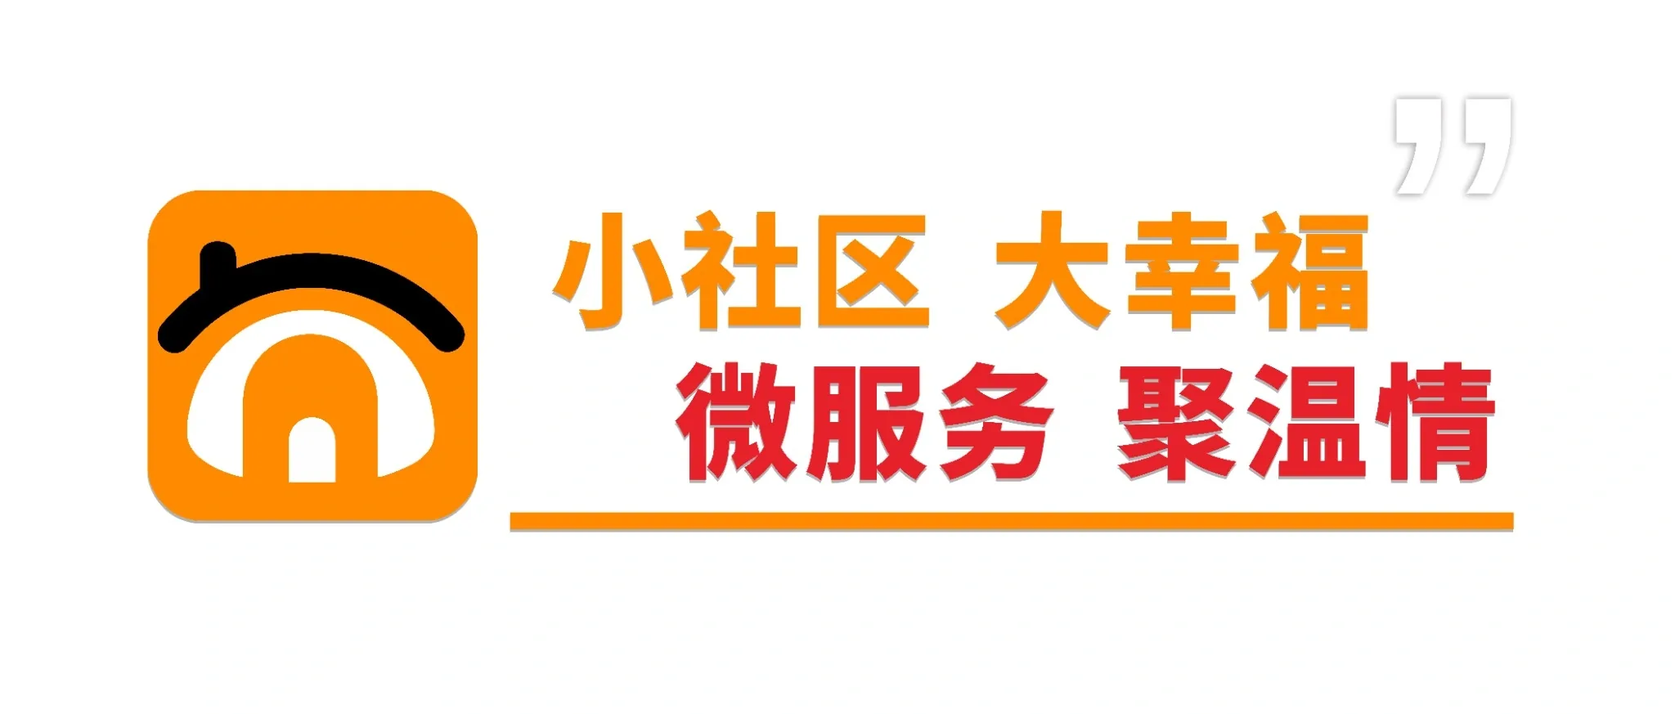
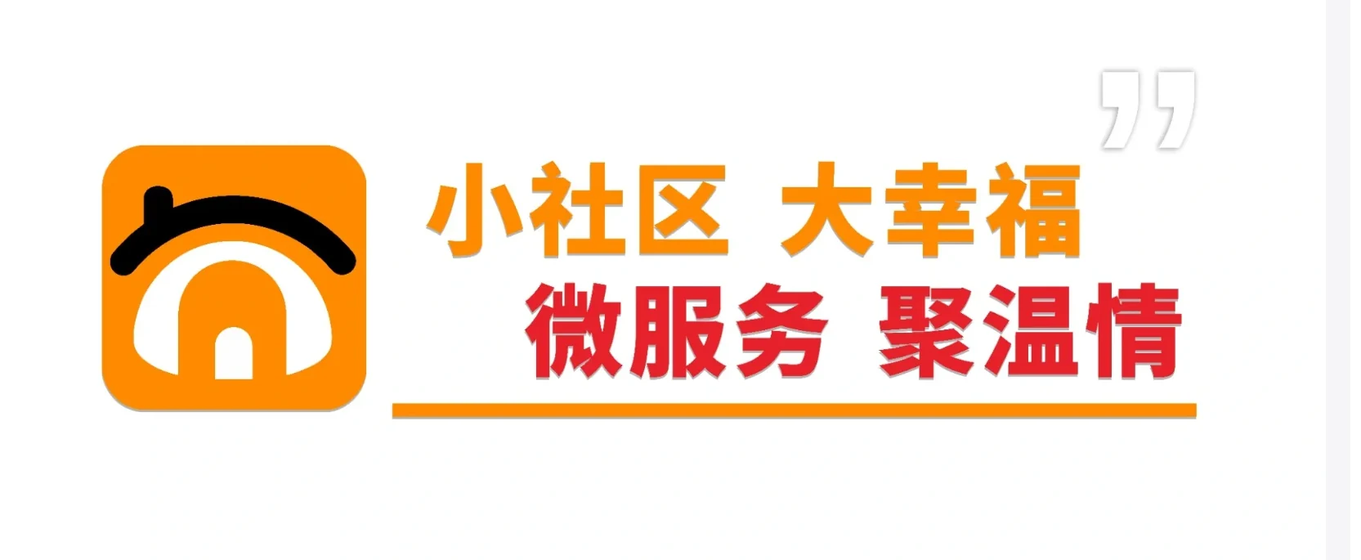
Refine Xingchengli gallery ordering and responsive artwork layout

Changed region(s): [[0.0625, 0.2453, 0.9057, 0.7664], [0.3748, 0.4905, 0.9057, 0.6745], [0.812, 0.1226, 0.9057, 0.2759]]

diff --git a/site-patch/index.html b/site-patch/index.html
@@ -158,6 +158,17 @@ nav a:last-child:hover{background:#7065d8;color:#fff;transform:translateY(-3px);
 
 /* Xingchengli cover: remove the inset frame and keep the article image full-bleed. */
 .xc-cover{padding:0!important;background:transparent!important}.xc-cover img{object-fit:cover;filter:none}
+
+/* Xingchengli project gallery: pair portrait works and keep packaging artwork compact. */
+#project-gallery{display:grid;grid-template-columns:repeat(2,minmax(0,1fr));gap:16px;align-items:start}
+#project-gallery>figure{grid-column:1/-1;min-width:0;margin:0 0 20px}
+#project-gallery>figure.gallery-poster{grid-column:span 1;margin:0}
+#project-gallery>figure.gallery-poster a{padding:8px}
+#project-gallery>figure.gallery-poster img{height:min(52vh,560px);width:100%;object-fit:contain}
+#project-gallery>figure.gallery-compact a{padding:10px}
+#project-gallery>figure.gallery-compact img{width:auto;height:min(42vh,420px);max-width:min(320px,52vw);object-fit:contain}
+#project-gallery figcaption{overflow-wrap:anywhere}
+@media(max-width:600px){#project-gallery{gap:8px}#project-gallery>figure{margin-bottom:14px}#project-gallery>figure.gallery-poster a{padding:5px}#project-gallery>figure.gallery-poster img{height:min(43vh,360px)}#project-gallery>figure.gallery-compact img{height:min(38vh,320px);max-width:min(260px,58vw)}}
 </style></head><body><header><a class="brand" href="#">支<span>独立视觉创作者 / PORTFOLIO</span></a><nav><a href="#work">作品</a><a href="#skills">技能</a><a href="#about">关于</a><a href="#contact">联系 ↗</a></nav></header><main><div class="atmosphere" aria-hidden="true"><i></i><i></i><i></i><div class="light-ribbon ribbon-one"></div><div class="light-ribbon ribbon-two"></div><div class="light-ribbon ribbon-three"></div></div><section class="hero"><div class="hero-icon"><svg viewBox="0 0 80 80" role="img" aria-label="支昱衡个人标识"><defs><linearGradient id="zhi-gradient" x1="0" y1="0" x2="1" y2="1"><stop stop-color="#45466f"/><stop offset=".6" stop-color="#6666a1"/><stop offset="1" stop-color="#8580bb"/></linearGradient></defs><g fill="none" stroke="url(#zhi-gradient)" stroke-width="4.2" stroke-linecap="round" stroke-linejoin="round"><path d="M23 25H57M40 15V37M25 39H55C50 50 38 61 24 66M27 45C33 53 44 61 56 66"/></g></svg></div><h1>让创意流动，让想法成形。</h1><p>我是支昱衡，一名平面设计师与新媒体创作者。<br>从视觉、内容到影像，把灵感变成看得见的表达。</p><a href="#work" class="pill">探索我的作品 ↓</a><div class="hero-disciplines"><span>VISUAL DESIGN</span><span>CONTENT CREATION</span><span>MOTION & AI</span></div></section><section class="section" id="work"><div class="showcase"><div class="window-bar"><div class="traffic"><i></i><i></i><i></i></div><span>支 · 创作工作台</span><span>＋</span></div><div class="workspace"><aside><b>我的作品集 <span>⌄</span></b><div class="aside-label">PROJECTS / 项目</div><a href="#work" data-side="all" class="selected">▦ &nbsp; 全部作品</a><a href="#work" data-side="brand">◈ &nbsp; 品牌视觉</a><a href="#work" data-side="visual">▧ &nbsp; 平面设计</a><a href="#work" data-side="social">▤ &nbsp; 新媒体视觉</a><a href="#work" data-side="ai">✳ &nbsp; AI 创作</a><div class="aside-bottom">从一个想法开始。<br><span>Make ideas visible.</span></div></aside><div class="workspace-main"><div class="section-head"><div><span class="eyebrow">SELECTED WORKS</span><h2>创意，在这里发生。</h2></div><div class="filters" aria-label="作品分类"><button class="active" data-filter="all" aria-pressed="true">全部</button><button data-filter="brand" aria-pressed="false">品牌视觉</button><button data-filter="visual" aria-pressed="false">平面设计</button><button data-filter="social" aria-pressed="false">新媒体</button><button data-filter="ai" aria-pressed="false">AI 创作</button></div></div><p class="project-count" id="project-count" aria-live="polite">9 个项目 · 35 张精选作品</p><div class="grid"><article class="project real-project" tabindex="0" role="button" aria-haspopup="dialog" aria-label="查看星橙里公寓 · 社区品牌视觉整合" data-project="xingchengli-culture-wall" data-tags="brand visual social"><div class="art real-cover xc-cover" style="--cover-bg:#f0ece3"><img src="assets/xingchengli/culture-wall-news.webp" alt="星橙里公寓社区文化墙新闻报道画面" loading="lazy" width="1500" height="1000"><span class="image-count">16 张精选作品</span><span class="xc-news-badge">新闻报道</span></div><div class="info"><div><h3>星橙里公寓 · 社区品牌视觉整合</h3><span>社区品牌建设 / 空间视觉与传播应用</span></div><span class="arrow" aria-hidden="true">↗</span></div></article><article class="project real-project" tabindex="0" role="button" aria-haspopup="dialog" aria-label="查看戎耀三秦 · 退役军人就业服务活动" data-project="rongyao-xian-2025" data-tags="visual"><div class="art real-cover" style="--cover-bg:#e8f2ff"><picture><source media="(max-width:600px)" srcset="assets/optimized/work-21-venue-screen.jpg"><img src="assets/optimized/work-21-cover-thumb.jpg" alt="戎耀三秦 · 陕西省2025年退役军人就业服务活动主视觉与现场落地" loading="eager" width="1440" height="1080"></picture><span class="image-count">5 张作品</span></div><div class="info"><div><h3>戎耀三秦 · 退役军人就业服务活动</h3><span>省级项目 / 活动视觉</span></div><span class="arrow" aria-hidden="true">↗</span></div></article><article class="project real-project" tabindex="0" role="button" aria-haspopup="dialog" aria-label="查看酒掌门 · 标志与名片视觉" data-project="jiuzhangmen" data-tags="brand visual"><div class="art real-cover " style="--cover-bg:#f2eeee"><img src="assets/optimized/work-01-thumb.jpg" alt="酒掌门 · 标志与名片视觉 · 标志、色彩与名片应用展示" loading="eager" width="1491" height="1055"><span class="image-count">1 张作品</span></div><div class="info"><div><h3>酒掌门 · 标志与名片视觉</h3><span>品牌视觉</span></div><span class="arrow" aria-hidden="true">↗</span></div></article><article class="project real-project" tabindex="0" role="button" aria-haspopup="dialog" aria-label="查看萌宠盒子 · 内容与招聘视觉" data-project="petbox" data-tags="social visual"><div class="art real-cover " style="--cover-bg:#f6eedf"><img src="assets/optimized/work-12-thumb.jpg" alt="萌宠盒子 · 内容与招聘视觉 · 宠物主题招聘海报" loading="lazy" width="1536" height="2048"><span class="image-count">3 张作品</span></div><div class="info"><div><h3>萌宠盒子 · 内容与招聘视觉</h3><span>新媒体 / 平面设计</span></div><span class="arrow" aria-hidden="true">↗</span></div></article><article class="project real-project" tabindex="0" role="button" aria-haspopup="dialog" aria-label="查看行知轩 · 教育招生系列" data-project="xingzhixuan" data-tags="visual"><div class="art real-cover " style="--cover-bg:#e5eff9"><img src="assets/optimized/work-08-thumb.jpg" alt="行知轩 · 教育招生系列 · 中学生托管主题海报" loading="lazy" width="1054" height="1492"><span class="image-count">3 张作品</span></div><div class="info"><div><h3>行知轩 · 教育招生系列</h3><span>平面设计</span></div><span class="arrow" aria-hidden="true">↗</span></div></article><article class="project real-project" tabindex="0" role="button" aria-haspopup="dialog" aria-label="查看行知轩 · 儿童体能宣传" data-project="fitness" data-tags="visual"><div class="art real-cover " style="--cover-bg:#e9e8df"><img src="assets/optimized/work-17-thumb.jpg" alt="行知轩 · 儿童体能宣传 · 双海报场景应用展示" loading="lazy" width="1448" height="1086"><span class="image-count">2 张作品</span></div><div class="info"><div><h3>行知轩 · 儿童体能宣传</h3><span>平面设计 / 应用展示</span></div><span class="arrow" aria-hidden="true">↗</span></div></article><article class="project real-project" tabindex="0" role="button" aria-haspopup="dialog" aria-label="查看伊丽莎白 · 35 周年店庆" data-project="anniversary" data-tags="visual"><div class="art real-cover " style="--cover-bg:#fde3ef"><img src="assets/optimized/work-07-thumb.jpg" alt="伊丽莎白 · 35 周年店庆 · 35 周年店庆主视觉" loading="lazy" width="1447" height="2048"><span class="image-count">2 张作品</span></div><div class="info"><div><h3>伊丽莎白 · 35 周年店庆</h3><span>平面设计 / 活动视觉</span></div><span class="arrow" aria-hidden="true">↗</span></div></article><article class="project real-project" tabindex="0" role="button" aria-haspopup="dialog" aria-label="查看蜀渝里 · 新店倒计时" data-project="restaurant" data-tags="visual"><div class="art real-cover cover-pair" style="--cover-bg:#28231f"><img src="assets/optimized/work-11-thumb.jpg" alt="蜀渝里 · 新店倒计时 · 开业倒计时 · 2 天" loading="lazy" width="1264" height="2048"><img src="assets/optimized/work-16-thumb.jpg" alt="蜀渝里 · 新店倒计时 · 开业倒计时 · 1 天" loading="lazy" width="1264" height="2048"><span class="image-count">2 张作品</span></div><div class="info"><div><h3>蜀渝里 · 新店倒计时</h3><span>平面设计 / 系列海报</span></div><span class="arrow" aria-hidden="true">↗</span></div></article><article class="project real-project" tabindex="0" role="button" aria-haspopup="dialog" aria-label="查看吾人设计 · 绿色家装宣传" data-project="interior" data-tags="visual"><div class="art real-cover " style="--cover-bg:#e5eee3"><img src="assets/optimized/work-13-thumb.jpg" alt="吾人设计 · 绿色家装宣传 · 绿色家装主题海报" loading="lazy" width="1447" height="2048"><span class="image-count">1 张作品</span></div><div class="info"><div><h3>吾人设计 · 绿色家装宣传</h3><span>平面设计</span></div><span class="arrow" aria-hidden="true">↗</span></div></article></div><div class="ai-empty" id="ai-empty" hidden><span class="app-icon spark software"><img src="assets/chatgpt.svg" alt="" width="35" height="35"></span><h3>AI 创作，持续探索中。</h3><p>本批作品尚未提供 AI 使用方式与制作流程，<br>具体 AI 创作案例待补充。</p><button class="pill" data-show-all>查看已有作品 ↗</button></div><p class="note">以视觉表达想法，用设计连接内容与品牌。</p></div></div></div></section><section class="tool-section" id="skills"><div class="tools"><div><span class="app-icon ps">Ps</span><small>Photoshop</small></div><div><span class="app-icon ai">Ai</span><small>Illustrator</small></div><div><span class="app-icon cdr software"><img src="assets/coreldraw.ico" alt="CorelDRAW 软件图标" width="47" height="47"></span><small>CorelDRAW</small></div><div><span class="app-icon blender software"><img src="assets/blender.svg" alt="Blender 图标" width="35" height="35"></span><small>Blender / 3D</small></div><div><span class="app-icon video software"><img src="assets/jianying.ico" alt="剪映软件图标" width="47" height="47"></span><small>剪映</small></div><div><span class="app-icon spark software"><img src="assets/chatgpt.svg" alt="ChatGPT 图标" width="35" height="35"></span><small>ChatGPT / AI</small></div></div><div class="tool-intro"><span class="eyebrow">TOOLS FOR IDEAS</span><h2>不同的工具，同一种创造力。</h2><p>从平面排版、内容运营，到建模、剪辑与 AI 创作。<br>让每个想法，都找到适合自己的表达方式。</p><a class="pill" href="#about">了解我的创作方式 ↗</a></div><div class="skill-cards"><article><div class="skill-art"><span class="app-icon ps">Ps</span><div class="mini-layer">画面 / 色彩 / 质感</div></div><h3>平面视觉</h3><p>用版式与色彩，建立清晰的视觉表达。</p></article><article><div class="skill-art"><span class="app-icon xiaohongshu software"><img src="assets/xiaohongshu.svg" alt="小红书图标" width="44" height="44"></span><div class="mini-layer">视觉 / 内容 / 传播</div></div><h3>新媒体内容</h3><p>将设计与运营结合，让内容更易被看见。</p></article><article><div class="skill-art"><span class="app-icon video software"><img src="assets/jianying.ico" alt="剪映软件图标" width="47" height="47"></span><div class="mini-layer">空间 / 节奏 / 叙事</div></div><h3>影像与建模</h3><p>以空间和时间，延伸画面的表现力。</p></article><article><div class="skill-art"><span class="app-icon spark software"><img src="assets/chatgpt.svg" alt="ChatGPT 图标" width="35" height="35"></span><div class="mini-layer">灵感 / 实验 / 可能</div></div><h3>AI 创作探索</h3><p>持续学习新工具，具体案例与流程待补充。</p></article></div></section><section class="profile-section" id="about" aria-labelledby="about-title"><figure class="profile-photo"><img src="assets/about/portrait-mobile-v2.jpg" alt="支昱衡个人肖像" width="600" height="800" loading="eager" decoding="async" fetchpriority="high"><figcaption>支昱衡 / ZHI YUHENG</figcaption></figure><div class="profile-copy"><span class="eyebrow">02 — ABOUT ME</span><h2 id="about-title">用设计，让信息有序表达。</h2><p>你好，我是支昱衡，一名平面设计师与新媒体创作者，拥有两年相关设计经验。设计实践涵盖活动物料、教育宣传、商业海报、电商视觉、宣传册与折页，以及微信公众号图文排版。</p><p>曾以外聘设计师身份参与陕西省2025年退役军人人力资源交流活动，完成活动视觉相关设计，作品应用于真实会场。从主视觉到不同尺寸的物料延展，我重视画面的统一，也关注设计在现场的实际呈现。</p><p>在教育与商业项目中，我根据受众和传播场景梳理内容，通过字体、色彩与图文层级突出重点，让画面兼顾美感与阅读效率。同时结合建模、视频剪辑与 AI 辅助工具，持续拓展视觉表达的方式。</p><div class="profile-facts"><div><strong>2 年</strong><span>设计相关经验</span></div><div><strong>设计 → 落地</strong><span>活动项目实践</span></div><div><strong>3 项</strong><span>省级竞赛二等奖 · 团队获奖</span></div></div><p class="profile-tools">Photoshop / Illustrator / CorelDRAW<br>视频剪辑 · 建模 · AI 辅助创作</p></div></section><section class="honors-section" id="awards" aria-labelledby="honors-title"><div class="honors-head"><div><span class="eyebrow">03 — AWARDS &amp; RECOGNITION</span><h2 id="honors-title">荣誉与竞赛经历</h2></div><p class="honors-intro">在实践中探索，在协作中成长。<br>作为团队成员参与创新与科技竞赛，获得三项省级二等奖，主要负责项目相关的平面设计与视觉美化，配合团队完成项目成果展示。</p></div><div class="honors-grid"><article class="honor-card"><div class="honor-meta"><span>2025</span><span class="honor-level">省级奖项</span></div><h3>第十七届“挑战杯”河南省大学生课外学术科技作品竞赛</h3><p class="honor-prize">二等奖</p><p class="honor-role">团队成员 · 平面设计与视觉美化<br>参赛项目：粮仓卫士——基于多源数据融合的智能粮仓监测预警系统</p><a class="certificate-link" href="assets/about/challenge-2025-private.webp" data-award-title="第十七届“挑战杯”河南省大学生课外学术科技作品竞赛 · 二等奖" aria-label="查看2025年第十七届“挑战杯”河南省大学生课外学术科技作品竞赛获奖证书"><img src="assets/about/challenge-2025-private.webp" alt="第十七届“挑战杯”河南省大学生课外学术科技作品竞赛二等奖证书，团队成员含支昱衡" loading="lazy"><span>查看获奖证书 ↗</span></a></article><article class="honor-card"><div class="honor-meta"><span>2025</span><span class="honor-level">省级奖项</span></div><h3>中国国际大学生创新大赛（2025）河南赛区选拔赛</h3><p class="honor-prize">二等奖</p><p class="honor-role">团队成员 · 平面设计与视觉美化<br>参赛项目：粮安智盾——基于多源信息的粮仓粮情智能监测预警系统</p><a class="certificate-link" href="assets/about/innovation-2025-private.webp" data-award-title="中国国际大学生创新大赛（2025）河南赛区选拔赛 · 二等奖" aria-label="查看2025年中国国际大学生创新大赛（2025）河南赛区选拔赛获奖证书"><img src="assets/about/innovation-2025-private.webp" alt="中国国际大学生创新大赛（2025）河南赛区选拔赛二等奖证书，团队成员含支昱衡" loading="lazy"><span>查看获奖证书 ↗</span></a></article><article class="honor-card"><div class="honor-meta"><span>2024</span><span class="honor-level">省级奖项</span></div><h3>河南省大学生创新大赛暨中国国际大学生创新大赛河南赛区选拔赛</h3><p class="honor-prize">二等奖</p><p class="honor-role">团队成员 · 平面设计与视觉美化<br>参赛项目：粮仓“数”卫——基于物联网技术的粮仓环境智能监测预警系统</p><a class="certificate-link" href="assets/about/innovation-2024-private.webp" data-award-title="河南省大学生创新大赛暨中国国际大学生创新大赛河南赛区选拔赛 · 二等奖" aria-label="查看2024年河南省大学生创新大赛暨中国国际大学生创新大赛河南赛区选拔赛获奖证书"><img src="assets/about/innovation-2024-private.webp" alt="河南省大学生创新大赛暨中国国际大学生创新大赛河南赛区选拔赛二等奖证书，团队成员含支昱衡" loading="lazy"><span>查看获奖证书 ↗</span></a></article></div><div class="award-contribution"><h3>我的职责与收获</h3><p>在上述获奖项目中，我作为团队成员，主要负责项目相关的平面设计与视觉美化工作，通过版式、配色与图文层级的整理，让项目信息表达更清晰、整体呈现更统一，并配合团队完成项目成果展示。</p><p>这些竞赛经历让我积累了团队协作与设计沟通经验，也加深了我对设计作用的理解：从项目内容出发，用清晰的视觉表达帮助观众理解方案的重点与价值。</p></div><p class="honors-note">以上为省级赛事精选荣誉，均以证书所载赛区与等级为准。</p></section><section class="closing-section" aria-labelledby="closing-title"><div><span class="eyebrow">04 — KEEP CREATING</span><h2 id="closing-title">让每一次实践，<br>成为下一次创作的积累。</h2></div><div class="closing-copy"><p>从创新竞赛到商业设计，从平面表达到活动现场，我持续学习如何理解需求、梳理信息，并将想法转化为具体成果。两年的设计与新媒体视觉实践，让我逐步形成兼顾画面美感、阅读效率与实际应用的工作方式。</p><p>未来，我希望继续深耕平面设计与新媒体视觉，结合建模、影像与 AI 辅助工具，完成更成熟、更有辨识度的作品。期待加入重视设计与内容的团队，在真实项目中持续成长。</p></div></section><section class="contact" id="contact"><span class="eyebrow">05 / LET’S CREATE SOMETHING</span><h2>期待与你共创</h2><p>品牌视觉 · 新媒体内容 · 影像创作</p><p class="contact-details"><a href="tel:18436002821">联系电话：18436002821</a><a href="mailto:3490705865@qq.com">电子邮箱：3490705865@qq.com</a></p><a href="#work">先逛逛我的创作方向 ↗</a></section></main><footer><span>© 2026 支 · 个人作品集</span><a href="#">BACK TO TOP ↑</a></footer><dialog id="detail" aria-labelledby="project-title"><div class="detail-bar"><span>PROJECT / 项目详情</span><button id="close" type="button" aria-label="关闭项目详情">关闭 ×</button></div><div class="detail-content"><div class="eyebrow" id="project-category"></div><h2 id="project-title"></h2><p id="project-intro"></p><div id="project-focus" class="project-focus"></div><p id="project-pending" class="project-pending"></p><div id="project-gallery" class="project-gallery"></div></div></dialog><script>
 const projects=[
   {
@@ -439,46 +450,47 @@ const projects=[
     ],
     "assets": [
       {
+        "src": "assets/xingchengli/community-slogan.webp",
+        "width": 1665,
+        "height": 685,
+        "caption": "01 · 平面设计 / 小社区大幸福主题画面"
+      },
+      {
         "src": "assets/xingchengli/culture-wall-news.webp",
         "width": 1500,
         "height": 846,
-        "caption": "01 · 文化墙设计 / 新闻报道现场"
+        "caption": "01 · 实景落地 / 文化墙新闻报道现场"
       },
       {
         "src": "assets/xingchengli/culture-wall-render-detail.webp",
         "width": 1390,
         "height": 910,
-        "caption": "01 · 文化墙设计 / 标识与版面细节"
-      },
-      {
-        "src": "assets/xingchengli/community-store-sign.webp",
-        "width": 1400,
-        "height": 520,
-        "caption": "02 · 品牌与空间 / 门店外立面标识"
-      },
-      {
-        "src": "assets/xingchengli/convenience-window-graphics.webp",
-        "width": 1400,
-        "height": 791,
-        "caption": "02 · 品牌与空间 / 便利店玻璃贴视觉"
+        "caption": "01 · 空间方案 / 文化墙标识与版面细节"
       },
       {
         "src": "assets/xingchengli/community-board.webp",
         "width": 1500,
         "height": 850,
-        "caption": "02 · 品牌与空间 / 社区宣传版面"
+        "caption": "02 · 平面设计 / 社区宣传版面"
       },
       {
-        "src": "assets/xingchengli/community-slogan.webp",
-        "width": 1500,
-        "height": 484,
-        "caption": "02 · 品牌与空间 / 小社区大幸福主题横幅"
+        "src": "assets/xingchengli/community-store-sign.webp",
+        "width": 1400,
+        "height": 520,
+        "caption": "02 · 实景落地 / 门店外立面标识"
+      },
+      {
+        "src": "assets/xingchengli/convenience-window-graphics.webp",
+        "width": 1400,
+        "height": 791,
+        "caption": "02 · 实景落地 / 便利店玻璃贴应用"
       },
       {
         "src": "assets/xingchengli/brand-bag.webp",
-        "width": 803,
-        "height": 1100,
-        "caption": "02 · 品牌与空间 / 品牌手提袋应用"
+        "width": 1614,
+        "height": 1149,
+        "caption": "02 · 平面设计 / 星橙里购物袋包装视觉",
+        "layout": "compact"
       },
       {
         "src": "assets/xingchengli/new-year-banner.webp",
@@ -496,31 +508,36 @@ const projects=[
         "src": "assets/xingchengli/midautumn-poster.webp",
         "width": 900,
         "height": 1200,
-        "caption": "03 · 活动与社区内容 / 中秋主题海报"
+        "caption": "03 · 活动与社区内容 / 中秋主题海报",
+        "layout": "poster"
       },
       {
         "src": "assets/xingchengli/rooftop-garden-poster.webp",
         "width": 919,
         "height": 1300,
-        "caption": "03 · 活动与社区内容 / 屋顶菜园宣传海报"
+        "caption": "03 · 活动与社区内容 / 屋顶菜园宣传海报",
+        "layout": "poster"
       },
       {
         "src": "assets/xingchengli/shared-bathroom-poster.webp",
         "width": 919,
         "height": 1300,
-        "caption": "03 · 活动与社区内容 / 共享卫浴服务海报"
+        "caption": "03 · 活动与社区内容 / 共享卫浴服务海报",
+        "layout": "poster"
       },
       {
         "src": "assets/xingchengli/standee-1.webp",
         "width": 1100,
         "height": 2037,
-        "caption": "04 · 公寓推广 / 招租易拉宝 A"
+        "caption": "04 · 公寓推广 / 招租易拉宝 A",
+        "layout": "poster"
       },
       {
         "src": "assets/xingchengli/standee-2.webp",
         "width": 1100,
         "height": 2037,
-        "caption": "04 · 公寓推广 / 招租易拉宝 B"
+        "caption": "04 · 公寓推广 / 招租易拉宝 B",
+        "layout": "poster"
       },
       {
         "src": "assets/works/work-04.png",
@@ -537,15 +554,14 @@ const projects=[
     ],
     "pending": "项目执行时间、本人具体职责与现场制作分工待补充。"
   }
-];
-const cards=[...document.querySelectorAll('[data-project]')];
+]const cards=[...document.querySelectorAll('[data-project]')];
 const filterButtons=[...document.querySelectorAll('[data-filter]')];
 function setFilter(key){filterButtons.forEach(b=>{const active=b.dataset.filter===key;b.classList.toggle('active',active);b.setAttribute('aria-pressed',String(active))});document.querySelectorAll('[data-side]').forEach(a=>a.classList.toggle('selected',a.dataset.side===key));let visible=0;cards.forEach(c=>{c.hidden=key!=='all'&&!c.dataset.tags.split(' ').includes(key);if(!c.hidden)visible++});document.querySelector('#ai-empty').hidden=key!=='ai';document.querySelector('#project-count').textContent=key==='all'?'9 个项目 · 35 张精选作品':key==='ai'?'AI 创作案例待补充':visible+' 个项目';}
 filterButtons.forEach(b=>b.addEventListener('click',()=>setFilter(b.dataset.filter)));
 document.querySelectorAll('[data-side]').forEach(a=>a.addEventListener('click',()=>setFilter(a.dataset.side)));
 document.querySelector('[data-show-all]').addEventListener('click',()=>setFilter('all'));
 const dialog=document.querySelector('#detail');
-function openProject(id){const p=projects.find(x=>x.id===id);if(!p)return;document.querySelector('#project-category').textContent=p.category;document.querySelector('#project-title').textContent=p.title;document.querySelector('#project-intro').textContent=p.intro;document.querySelector('#project-pending').textContent=p.pending;const focus=document.querySelector('#project-focus');focus.replaceChildren(...p.focus.map(t=>{const s=document.createElement('span');s.textContent=t;return s}));const gallery=document.querySelector('#project-gallery');gallery.replaceChildren(...p.assets.map((a,i)=>{const f=document.createElement('figure');const link=document.createElement('a');link.href=a.src;link.target='_blank';link.rel='noopener';link.setAttribute('aria-label','新窗口查看高清图：'+a.caption);const img=document.createElement('img');img.src=a.src;img.alt=p.title+' · '+a.caption;img.width=a.width;img.height=a.height;img.loading=i===0?'eager':'lazy';if(a.width<500)img.style.maxWidth=(a.width*2)+'px';link.append(img);const caption=document.createElement('figcaption');caption.textContent=String(i+1).padStart(2,'0')+' / '+a.caption+' · 点击查看大图';f.append(link,caption);return f}));dialog.showModal();dialog.scrollTop=0;document.body.style.overflow='hidden'}
+function openProject(id){const p=projects.find(x=>x.id===id);if(!p)return;document.querySelector('#project-category').textContent=p.category;document.querySelector('#project-title').textContent=p.title;document.querySelector('#project-intro').textContent=p.intro;document.querySelector('#project-pending').textContent=p.pending;const focus=document.querySelector('#project-focus');focus.replaceChildren(...p.focus.map(t=>{const s=document.createElement('span');s.textContent=t;return s}));const gallery=document.querySelector('#project-gallery');gallery.replaceChildren(...p.assets.map((a,i)=>{const f=document.createElement('figure');f.className='gallery-item '+(a.layout||'wide');const link=document.createElement('a');link.href=a.src;link.target='_blank';link.rel='noopener';link.setAttribute('aria-label','新窗口查看高清图：'+a.caption);const img=document.createElement('img');img.src=a.src;img.alt=p.title+' · '+a.caption;img.width=a.width;img.height=a.height;img.loading=i===0?'eager':'lazy';if(a.width<500)img.style.maxWidth=(a.width*2)+'px';link.append(img);const caption=document.createElement('figcaption');caption.textContent=String(i+1).padStart(2,'0')+' / '+a.caption+' · 点击查看大图';f.append(link,caption);return f}));dialog.showModal();dialog.scrollTop=0;document.body.style.overflow='hidden'}
 cards.forEach(c=>{c.addEventListener('click',()=>openProject(c.dataset.project));c.addEventListener('keydown',e=>{if(e.key==='Enter'||e.key===' '){e.preventDefault();openProject(c.dataset.project)}})});
 document.querySelector('#close').addEventListener('click',()=>dialog.close());dialog.addEventListener('close',()=>{document.body.style.overflow=''});dialog.addEventListener('click',e=>{if(e.target===dialog){const r=dialog.getBoundingClientRect();if(e.clientX<r.left||e.clientX>r.right||e.clientY<r.top||e.clientY>r.bottom)dialog.close()}});
 </script><dialog id="award-viewer" class="award-dialog" aria-labelledby="award-caption"><form method="dialog"><button aria-label="关闭获奖证书">关闭 ×</button></form><img id="award-image" alt=""><p id="award-caption"></p></dialog><script>document.querySelectorAll('.certificate-link').forEach(link=>link.addEventListener('click',event=>{const viewer=document.getElementById('award-viewer');if(!viewer.showModal)return;event.preventDefault();const image=document.getElementById('award-image');image.src=link.getAttribute('href');image.alt=link.dataset.awardTitle;document.getElementById('award-caption').textContent=link.dataset.awardTitle;viewer.showModal();}));document.getElementById('award-viewer').addEventListener('click',event=>{if(event.target===event.currentTarget)event.currentTarget.close();});</script></body></html>
